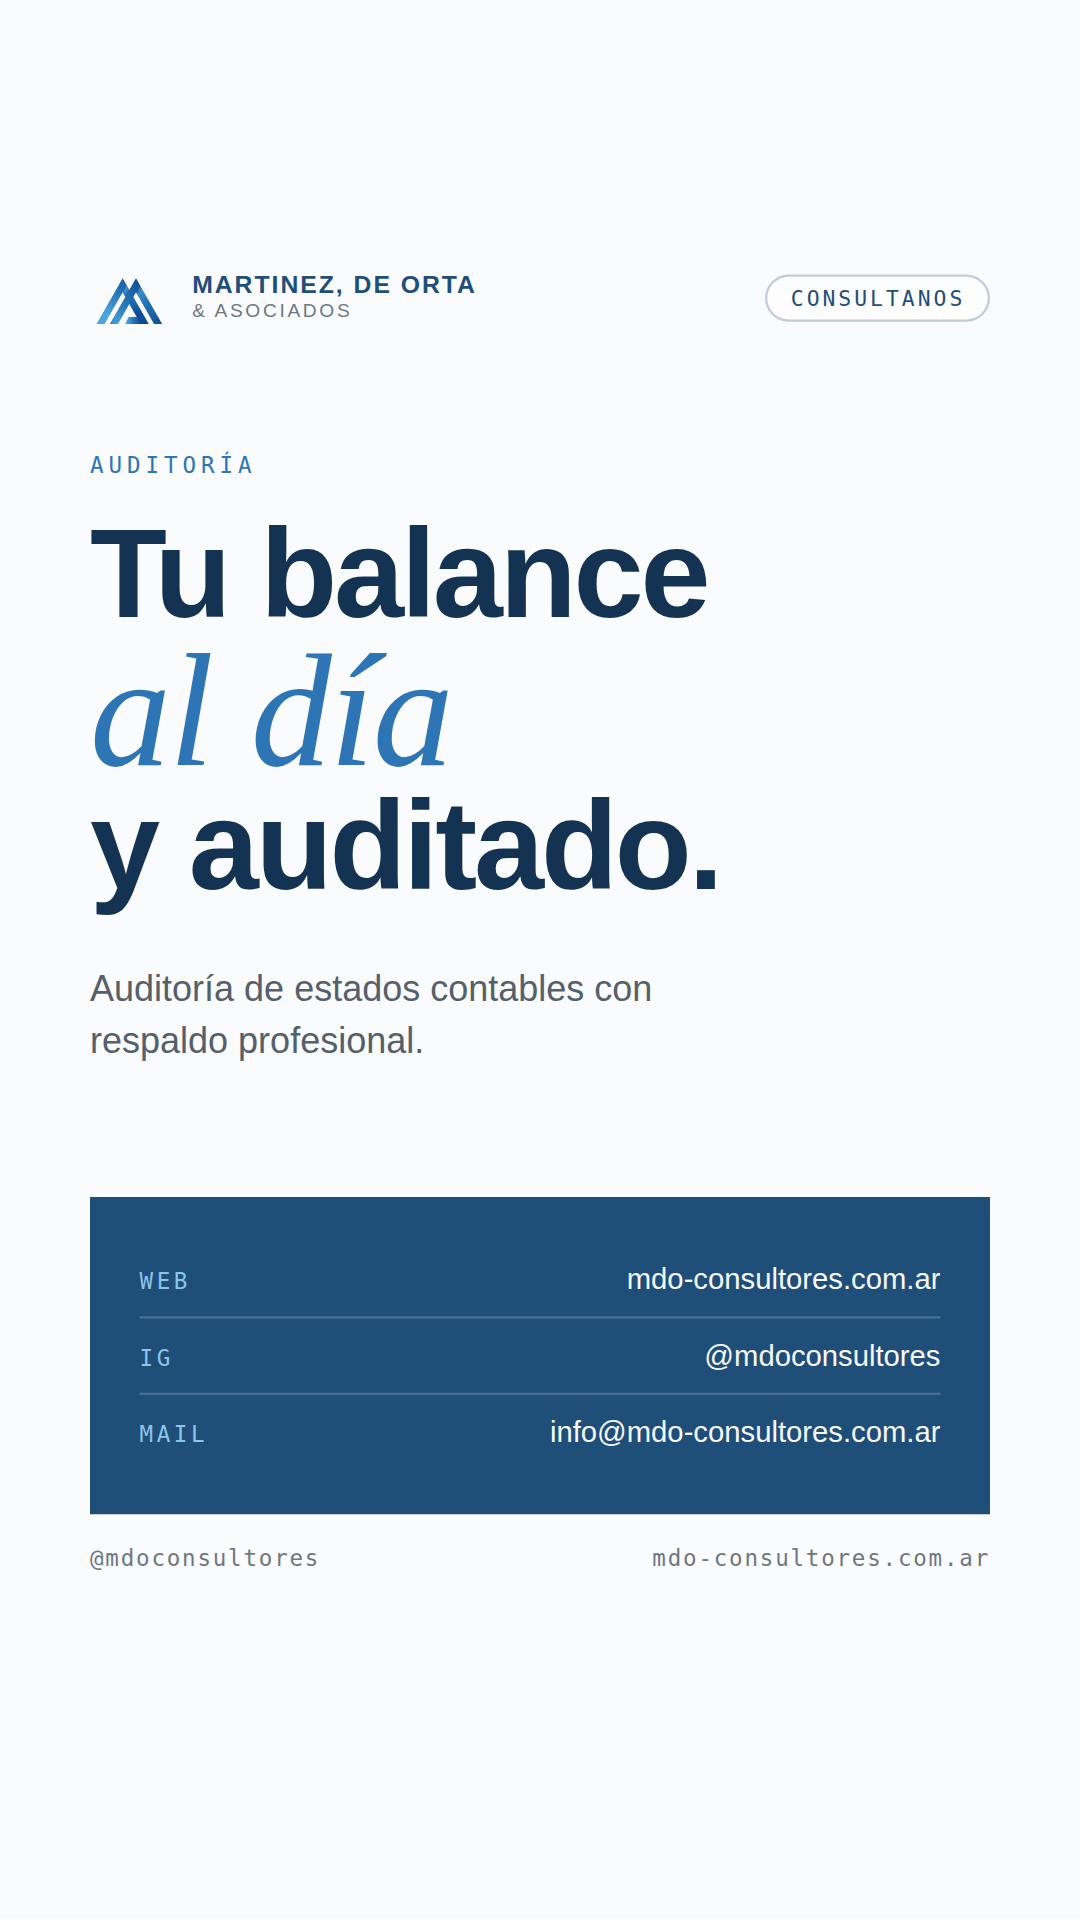
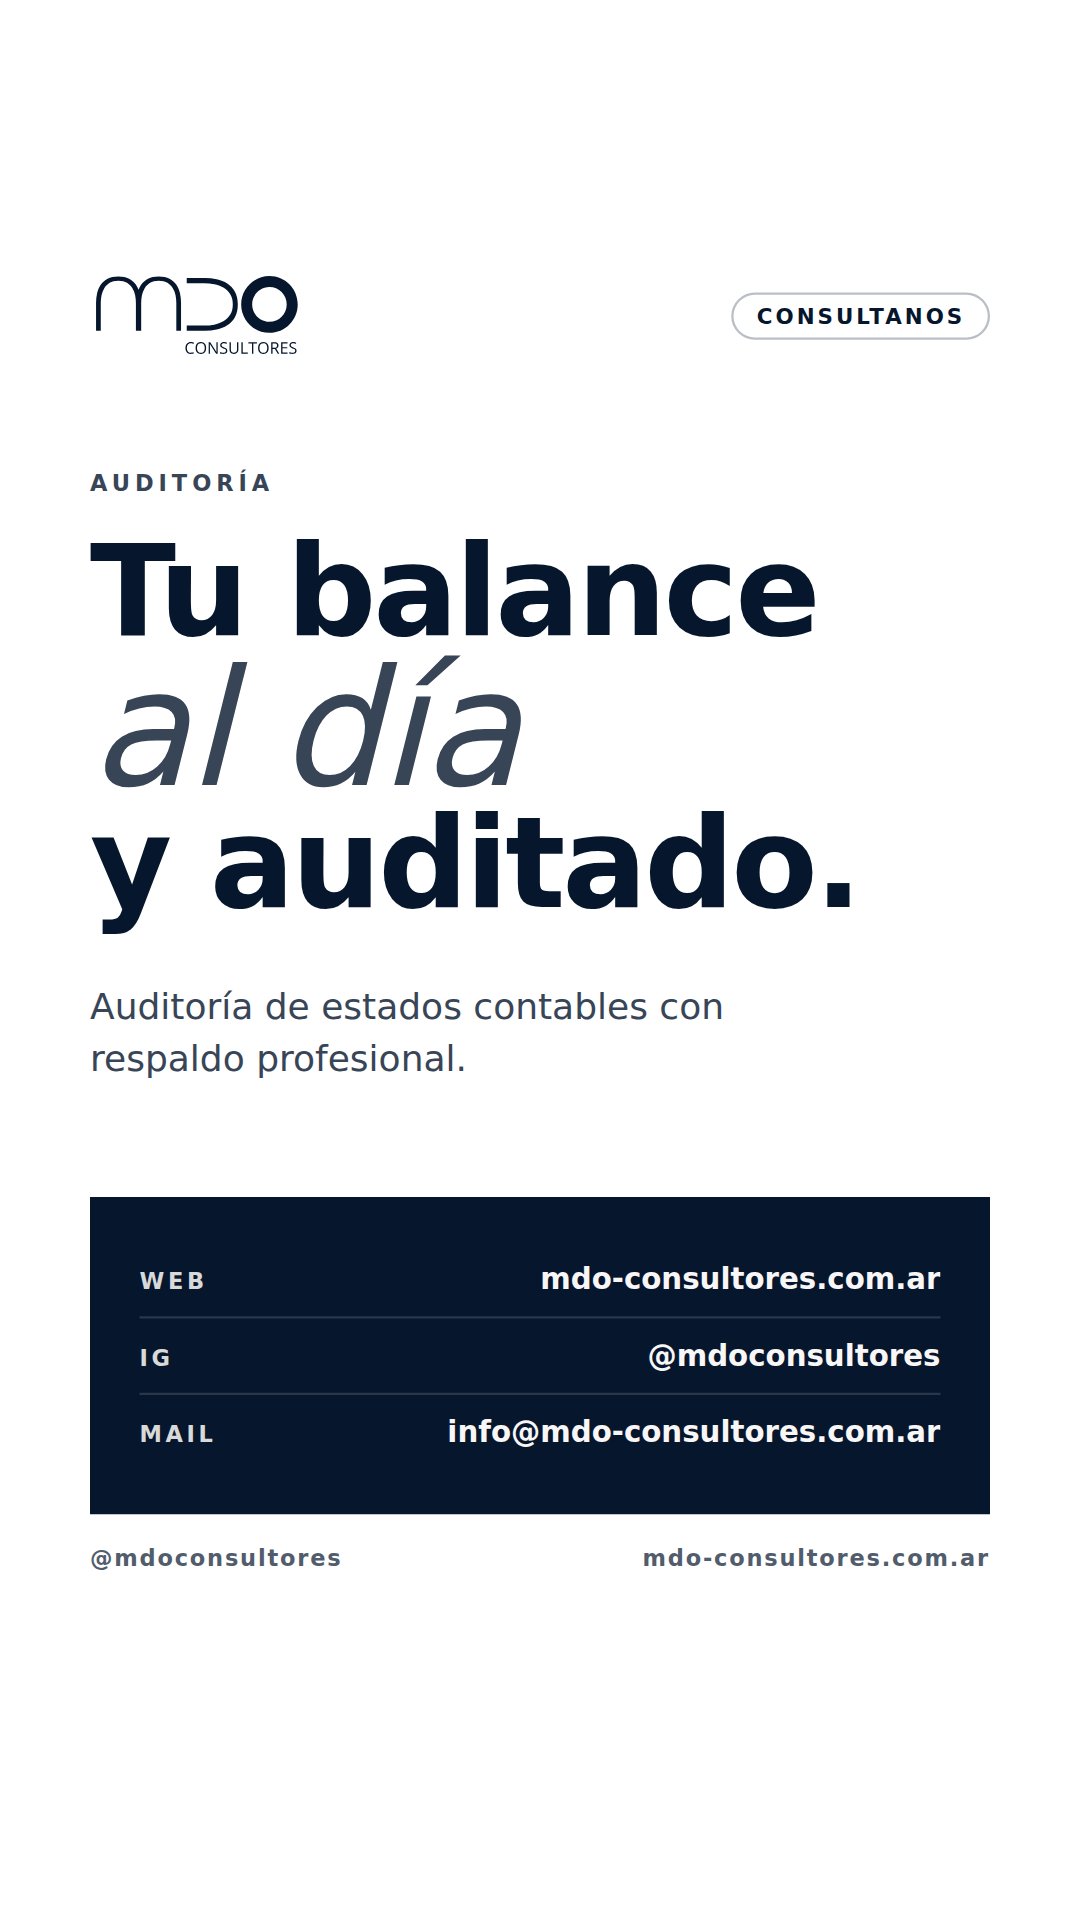
posts: re-renderiza la semana 34 con la Marca 2026
Las 4 placas se habian renderizado antes del commit de marca, asi que
salian con el azul viejo, Montserrat y el logo 'Martinez, De Orta &
Asociados' — el nombre anterior del estudio. Ahora salen con azul noche
#06162D, Open Sans y el logo MDO CONSULTORES.

La skill suma una regla dura de Marca 2026 arriba de todo (nombre, color,
tipografias, prohibicion de hex a mano) y apunta a jmartinez-sketch/mdo-brand
como fuente de verdad.

Claude-Session: https://claude.ai/code/session_01FGfc4dKpNkJfQ1eyX6aCLf

diff --git a/.claude/skills/mdo-rutina-semanal/SKILL.md b/.claude/skills/mdo-rutina-semanal/SKILL.md
@@ -10,6 +10,19 @@ Ejecutar **todos los lunes 9hs Argentina (UTC-3)** para armar los posteos de la 
 
 ⚠ **REGLA DURA — el lunes NO se publica nada.** El lunes es solo el día en que *corre* la rutina: lee el Gmail, arma el contenido y crea los drafts. El primer post de la semana sale el **miércoles**. ❌ Nunca crear un draft con fecha de lunes.
 
+## ⚠ Marca 2026 — regla dura
+
+El estudio **rebrandeó**. Todo lo que se publique tiene que salir con la marca nueva:
+
+- **Nombre**: el logo dice **MDO CONSULTORES**. El lockup secundario es **MARTINEZ · DE ORTA · GUTIERREZ TABOADA**. ❌ "& Asociados" es el nombre **anterior** y no puede aparecer en nada publicado.
+- **Color**: azul noche `#06162D`. ❌ Nunca el azul viejo `#1f4e79`.
+- **Tipografías**: **Open Sans** en todo (títulos incluidos) y **Chivo** solo como acento en palabras o frases cortas. ❌ No hay monoespaciada: lo que antes iba en Geist Mono va en Chivo 700 con versalitas.
+- **Nunca escribir hex a mano** en una plantilla: usar las variables de `mdo-brand.css`. Los nombres de variable no cambiaron, así que una plantilla bien escrita adopta la marca sola.
+
+La fuente de verdad es el repo **`jmartinez-sketch/mdo-brand`** (`actual/tokens.css` y `actual/brand.json`). Si hay una duda de marca, se resuelve ahí, no acá.
+
+⚠ **Placas renderizadas antes del 19/08/2026 llevan la marca vieja.** Si hay que reprogramar un post viejo, re-renderizar la imagen primero.
+
 ## Contexto del negocio
 
 - **Estudio**: Martinez, De Orta & Gutierrez Taboada (MDO Consultores) — Argentina
@@ -21,7 +34,7 @@ Ejecutar **todos los lunes 9hs Argentina (UTC-3)** para armar los posteos de la 
 
 ## Output esperado
 
-**4 drafts por semana** (5 solo cuando la semana ISO cae en `%4==2`, que junta story del jueves con spotlight del sábado), para la cuenta IG+LinkedIn "Martinez, De Orta & Asociados" (`blogId: 6267636`, timezone `America/Argentina/Buenos_Aires`).
+**4 drafts por semana** (5 solo cuando la semana ISO cae en `%4==2`, que junta story del jueves con spotlight del sábado), para la cuenta IG+LinkedIn de **MDO Consultores** (`blogId: 6267636`, timezone `America/Argentina/Buenos_Aires`).
 
 **Cada draft lleva Instagram y LinkedIn juntos**, salvo el jueves de story — ver la regla dura del paso 6.
 
@@ -61,7 +74,7 @@ Esto no es teórico — pasó de verdad (auditoría del 17/08/2026 sobre 3 meses
 
 ### ⚠ Regla dura — variedad de plantillas
 
-La rutina tiene **58 plantillas disponibles** y el riesgo real es caer siempre en las mismas 5-6. Por eso:
+La rutina tiene **76 plantillas disponibles** y el riesgo real es caer siempre en las mismas 5-6. Por eso:
 
 1. **Antes de elegir cualquier plantilla, leer `posts/historial-plantillas.json`** (paso 0). Lo usado en las últimas 4 semanas queda **descartado**, salvo la ancla `po-13d`.
 2. **Al terminar, escribir el historial** (paso 8). Si no se escribe, la próxima corrida no tiene memoria y la variedad se rompe.
@@ -345,7 +358,7 @@ El viernes NO está atado a `po-04`. Hay **18 templates disponibles**, todos ver
 - `po-04` → `mdo-templates/templates-portrait.jsx`
 - `po-21`–`po-25` → `mdo-templates/templates-friday.jsx`
 - `po-26`–`po-30` → `mdo-templates/templates-friday-b.jsx` (incluye el set de íconos SVG line-style)
-- Para un template nuevo: escribir el componente reusando el sistema de marca (paleta `:root`, fuentes Montserrat/Instrument Serif/Geist Mono, `Lockup`, `IsoWatermark`, clases `.tpl`/`.navy`/etc.) y registrarlo en `render.html` (`TEMPLATES`). Mantener padding generoso (margen seguro de grilla).
+- Para un template nuevo: escribir el componente reusando el sistema de marca **v2.0** (variables de `mdo-brand.css` — NUNCA hex a mano; `var(--font-body)` Open Sans para todo, `var(--font-accent)` Chivo solo para acentos cortos; `Lockup`, `IsoWatermark`, clases `.tpl`/`.navy`) y registrarlo en `render.html` (`TEMPLATES`). Mantener padding generoso (margen seguro de grilla).
 
 ### 3b. Generar contenido del jueves
 
@@ -803,7 +816,7 @@ Antes de cerrar, comparar las plantillas de esta corrida contra las 4 semanas an
 - **Setup**: si la sesión es fresca, correr primero `bash scripts/setup.sh` para instalar Node modules + Chromium.
 - **Branch**: la rutina automática corre sobre `main` (default branch). Las sesiones manuales pueden trabajar sobre branches `claude/*` efímeras, pero al final todo se mergea a `main`.
 - **Timezone**: Argentina = UTC-3. Sin DST. Lunes 9hs ARG = Lunes 12:00 UTC.
-- **Templates disponibles**: **59 en total**. Ver `mdo-templates/PLACEHOLDERS.md` para el catálogo completo con todos los slots. La rutina pone ~35 en rotación real; el resto son variantes cuadradas (excluidas a propósito del feed) o superadas por versiones nuevas.
+- **Templates disponibles**: **76 en total** (incluye las `mn-*` del manual y las `hl-*` de destacadas). Ver `mdo-templates/PLACEHOLDERS.md` para el catálogo completo con todos los slots. La rutina pone ~35 en rotación real; el resto son variantes cuadradas (excluidas a propósito del feed) o superadas por versiones nuevas.
 - **Historial de plantillas**: `posts/historial-plantillas.json`. Es lo que le da memoria a la rutina entre semanas. Se lee en el paso 0 y se escribe en el paso 8.
 - **Metricool**: la autenticación viene del MCP, no hardcodear nada. brand `blogId: 6267636`.
 - **Repo público**: las URLs `raw.githubusercontent.com/...` deben responder 200 al momento de crear el post (Metricool descarga la imagen una vez y la copia a su CDN). Si el repo es privado, el paso 6 falla.
